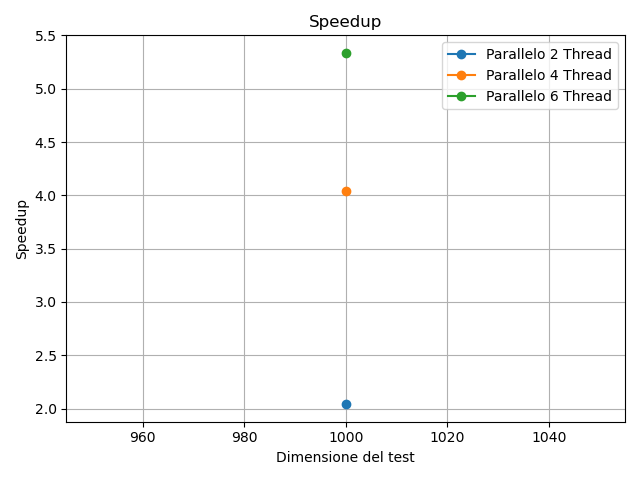
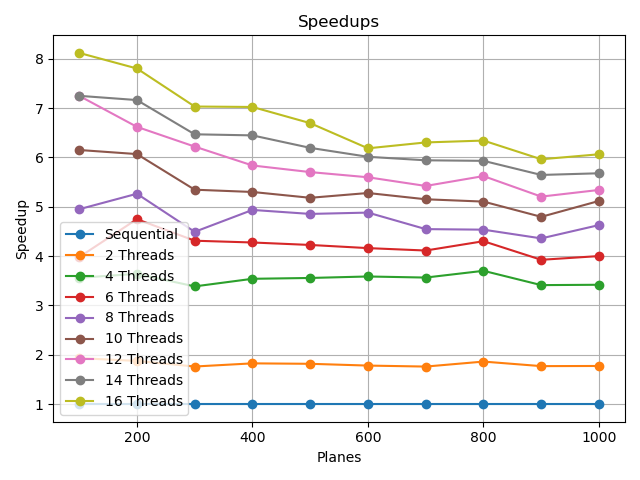
tests

diff --git a/main.cpp b/main.cpp
@@ -7,9 +7,9 @@ void headerResults(const std::string& filename, int nThreads){
     std::ofstream outfile;
     outfile.open(filename);
     if(outfile.is_open())
-        outfile << "test;tSeq;";
+        outfile << "TEST;T_SEQ;";
     for(int i=2; i<=nThreads; i+=2)
-        outfile << "tPar" << i << ";speedUp" << i << ";";
+        outfile << "T_PAR" << i << ";SPEEDUP" << i << ";";
     outfile << "\n";
     outfile.close();
 }
@@ -31,7 +31,7 @@ void exportResults(const std::string& filename, std::size_t test, double tSeq, c
 
 int main() {
 #ifdef _OPENMP
-    printf("**Number of cores/threads: %d**\n", omp_get_num_procs());
+    printf("**OPENMP :: Number of cores/threads: %d**\n", omp_get_num_procs());
     omp_set_dynamic(0);
 #endif
     headerResults(RESULT_PATH, omp_get_num_procs());
@@ -44,32 +44,32 @@ int main() {
         auto circles = generateCircles(test * N_CIRCLES, WIDTH, HEIGHT, MIN_RADIUS, MAX_RADIUS);
         auto planes = generatePlanes(test, circles, N_CIRCLES);
 
-        printf("\nTEST: %llu\n", test);
+        printf("\nTEST PLANES: %llu\n", test);
 
         // TEST SEQUENTIAL
         double tSeq = sequentialRenderer(planes, test);
-        printf("Sequential time: %f\n", tSeq);
+        printf("SEQUENTIAL Time: %f\n", tSeq);
 
         // TEST PARALLEL
         std::map<std::size_t, double> tPars;
         std::map<std::size_t, double> speedUps;
         for (int i=2; i<=omp_get_num_procs(); i+=2) {
-            //SET NUMBER OF THREADS
+            // SET NUMBER OF THREADS
             omp_set_num_threads(i);
 
             // TEST PARALLEL
             double tPar = parallelRenderer(planes, test);
-            printf("Parallel time with %d threads: %f\n", i, tPar);
+            printf("PARALLEL-%d Time: %f\n", i, tPar);
 
             double speedUp = tSeq / tPar;
-            printf("Speedup with %d threads: %f \n", i, speedUp);
+            printf("PARALLEL-%d Speedup: %f \n", i, speedUp);
 
             // SAVE RESULTS
             tPars.insert(std::pair<std::size_t, double>(i, tPar));
             speedUps.insert(std::pair<std::size_t, double>(i, speedUp));
         }
 
-        //WRITE RESULTS TO TXT FILE
+        // WRITE RESULTS TO TXT FILE
         exportResults(RESULT_PATH, test, tSeq, tPars, speedUps);
 
         // DELETE ARRAY DYNAMIC ALLOCATED
@@ -78,4 +78,3 @@ int main() {
     }
     return 0;
 }
-

diff --git a/results/generate_plots.py b/results/generate_plots.py
@@ -5,39 +5,44 @@ from matplotlib import pyplot as plt
 results_folder = 'csv/result-'
 
 plot_folder = 'plots/'
-plot_omp_times = 'results_times.png'
-plot_omp_speedup = 'results_speedup.png'
+
+plot_results_times = 'results_times.png'
+plot_results_speedup = 'results_speedup.png'
+
+test = "TEST"
+t_seq = "T_SEQ"
+t_par = "T_PAR"
+speedup = "SPEEDUP"
 
 
 def plot_csv(data, folder):
-    # Leggi il file CSV
+    # Read file CSV
     data = pd.read_csv(data, sep=';')
-
-    # Plot OMP
+    # Plot Tempi
     plt.figure()
-    plt.plot(data['test'], data['tSeq'], marker='o', label='Sequenziale')
+    plt.plot(data[test], data[t_seq], marker='o', label='Sequential')
     for i in range(2, len(data.columns) - 2, 2):
-        plt.plot(data['test'], data[f'tPar{i}'], marker='o', label=f'Parallelo {i} Thread')
-    plt.xlabel('Dimensione del test')
-    plt.ylabel('Tempo (secondi)')
-    plt.title('Tempi di esecuzione')
+        plt.plot(data[test], data[t_par + str(i)], marker='o', label=f'{i} Threads')
+    plt.xlabel('Planes')
+    plt.ylabel('Time (seconds)')
+    plt.title('Execution Times')
     plt.legend()
     plt.grid()
     plt.tight_layout()
-    plt.savefig(folder + plot_omp_times)
-    # plt.show()
+    plt.savefig(folder + plot_results_times)
 
     # Plot Speedup
     plt.figure()
+    plt.plot(data[test], data[t_seq]/data[t_seq], marker='o', label=f'Sequential')
     for i in range(2, len(data.columns) - 2, 2):
-        plt.plot(data['test'], data[f'speedUp{i}'], marker='o', label=f'Parallelo {i} Thread')
-    plt.xlabel('Dimensione del test')
+        plt.plot(data[test], data[speedup + str(i)], marker='o', label=f'{i} Threads')
+    plt.xlabel('Planes')
     plt.ylabel('Speedup')
-    plt.title('Speedup')
+    plt.title('Speedups')
     plt.legend()
     plt.grid()
     plt.tight_layout()
-    plt.savefig(folder + plot_omp_speedup)
+    plt.savefig(folder + plot_results_speedup)
     # plt.show()
 
 

diff --git a/src/renderer.cpp b/src/renderer.cpp
@@ -2,14 +2,14 @@
 
 Circle* generateCircles(std::size_t n, int width, int height, int minRadius, int maxRadius) {
     auto* circles = new Circle[n];
-    std::mt19937 generator(777);
+    std::mt19937 generator(std::random_device{}());
 
     std::uniform_int_distribution<int> colorDistribution(0, 255);
     std::uniform_int_distribution<int> pointXDistribution(1, width);
     std::uniform_int_distribution<int> pointYDistribution(1, height);
     std::uniform_int_distribution<int> radiusDistribution(minRadius, maxRadius);
 
-#pragma omp parallel for default(none) shared(circles, generator, n, colorDistribution, pointXDistribution, pointYDistribution, radiusDistribution)
+#pragma omp parallel for default(none) shared(circles, generator, colorDistribution, pointXDistribution, pointYDistribution, radiusDistribution) firstprivate(n)
     for (int i = 0; i < n; i++) {
         cv::Scalar color(colorDistribution(generator), colorDistribution(generator), colorDistribution(generator), 255);
         cv::Point center(pointXDistribution(generator), pointYDistribution(generator));
@@ -34,6 +34,7 @@ cv::Mat* generatePlanes(std::size_t nPlanes, Circle circles[], std::size_t nCirc
 
     return planes;
 }
+
 
 double sequentialRenderer(cv::Mat planes[], std::size_t nPlanes) {
     cv::Mat result = TRANSPARENT_MAT;
@@ -61,6 +62,7 @@ double sequentialRenderer(cv::Mat planes[], std::size_t nPlanes) {
     return time;
 }
 
+
 double parallelRenderer(cv::Mat planes[], std::size_t nPlanes) {
     cv::Mat result = TRANSPARENT_MAT;
     int cn = result.channels();
@@ -87,4 +89,5 @@ double parallelRenderer(cv::Mat planes[], std::size_t nPlanes) {
     cv::imwrite(PAR_IMG_PATH + std::to_string(nPlanes) + ".png", result);
     return time;
 }
+
 

diff --git a/src/renderer.h b/src/renderer.h
@@ -2,46 +2,33 @@
 #define RENDERER_RENDERER_H
 
 #include "test.h"
-#include <omp.h>
-#include <cstdlib>
-#include <fstream>
 #include <vector>
 #include <iostream>
+#include <fstream>
+#include <iostream>
+#include <omp.h>
 #include <random>
+#include <opencv2/opencv.hpp>
 #include <opencv2/core/types.hpp>
-#include <opencv2/highgui/highgui.hpp>
-#include <opencv2/imgproc/imgproc.hpp>
+#include <opencv2/core/mat.hpp>
+#include <opencv2/imgproc.hpp>
+#include <opencv2/highgui.hpp>
 
-// AoS
 struct Circle {
     cv::Scalar color;
     cv::Point center;
     int r;
 };
 
-// SoA
-struct Circles{
-    cv::Scalar* colors;
-    cv::Point* centers;
-    int* rs;
-};
-
-
 // GENERATION
 Circle* generateCircles(std::size_t n, int width, int height, int minRadius, int maxRadius);
-
-Circles* generateSoACircles(std::size_t n);
 
 cv::Mat* generatePlanes(std::size_t nPlanes, Circle circles[], std::size_t nCircles);
 
 // RENDERING
 double sequentialRenderer(cv::Mat planes[], std::size_t nPlanes);
 
-double rendererSoASequential(Circles* circles, std::size_t nPlanes, std::size_t nCircles);
-
 double parallelRenderer(cv::Mat planes[], std::size_t nPlanes);
-
-double rendererSoAParallel(Circles* circles, std::size_t nPlanes, std::size_t nCircles);
 
 
 #endif //RENDERER_RENDERER_H

diff --git a/src/test.h b/src/test.h
@@ -7,20 +7,20 @@
 #define PAR_IMG_PATH "../results/img/par/"
 
 // IMAGES
-#define WIDTH 1024
-#define HEIGHT 1024
+#define WIDTH 256
+#define HEIGHT 256
 #define TRANSPARENT cv::Scalar(255, 255, 255, 0)
 #define TRANSPARENT_MAT cv::Mat(HEIGHT, WIDTH, CV_8UC4, TRANSPARENT)
 #define ALPHA 0.5
 
 // RADIUS CIRCLES
 #define MAX_RADIUS 200
-#define MIN_RADIUS 50
+#define MIN_RADIUS 10
 
 // FOR TESTING
 #define MAX_TESTS 1000
-#define SPACE 100
 #define MIN_TEST 100
+#define SPACE 100
 #define N_CIRCLES 100
 
 #endif //RENDERER_TEST_H
